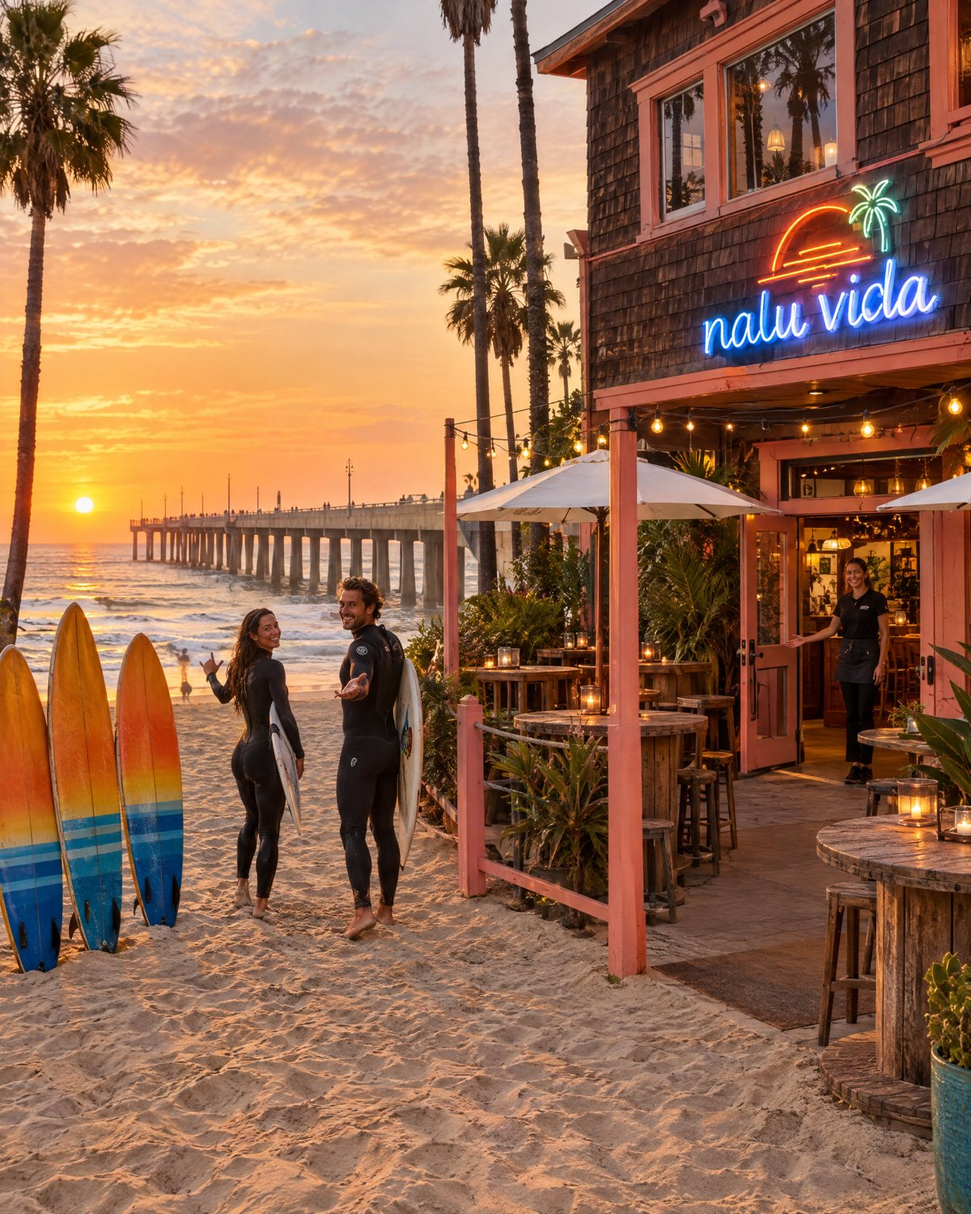
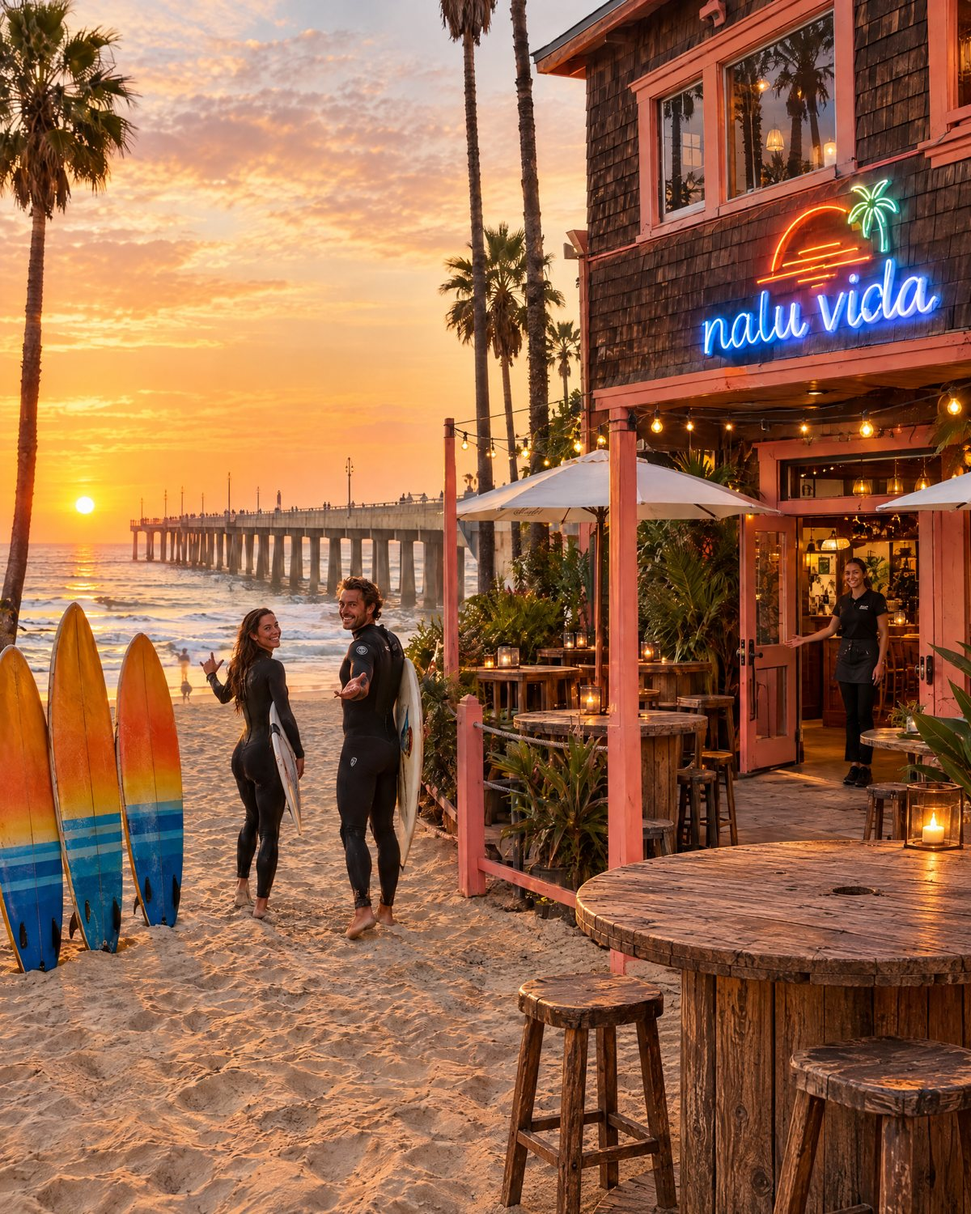
Christian's one-link launch checklist; Nalu game jump + wave bob + lit shore; arrival scene with 3D plates
- /launch/christian/: both restaurants' setup pages, register (POS) per restaurant with step-by-step links,
  launch-week questions, one 'Send everything' that collects both setup summaries + launch answers
- setup-kit: window.SETUP_SUMMARY exposed so the launch checklist can collect answers; all setup pages rebuilt
- Ride the Nalu: tap to jump (clear the pier +500, fly over hazards), wave bob, swell hops,
  helicopter over the shore at the pit stop, golden-hour aerial with Nalu Vida's packed, lit patio
- Arrival scene: big foreground table, 3D dishes (tilt, sheen, contact shadow, steam), pairs every third round

Claude-Session: https://claude.ai/code/session_01QPTzY5K9U99ggeSmdzRnr3

diff --git a/demo/nalu-vida/game.js b/demo/nalu-vida/game.js
@@ -39,7 +39,7 @@
     '<div class="nv-ov" id="nv-start"><h3>Ride the Nalu</h3><p>Surf the Venice Pier loop. Grab the food, dodge the bites, and win free food &amp; drinks at Nalu Vida.</p>' +
     '<div class="nv-pick"><button type="button" data-s="f"><img src="img/game/surfer_f.webp" alt="" onerror="this.outerHTML=\'<div class=ph style=font-size:64px;line-height:96px>🏄♀</div>\'">She rides</button>' +
     '<button type="button" data-s="m"><img src="img/game/surfer_m.webp" alt="" onerror="this.outerHTML=\'<div class=ph style=font-size:64px;line-height:96px>🏄♂</div>\'">He rides</button></div>' +
-    '<p class="nv-how">Drag to steer · Grab food rafts, boat hand-offs and helicopter drops · 4 in a row = ×2, 8 = ×3, and it keeps going · Dodge sharks, eels &amp; jellyfish · Shoot the pier for a bonus · Tap the banner plane 👀</p><p class="nv-how" id="nv-best"></p></div>' +
+    '<p class="nv-how">Drag to steer · <b>Tap to jump</b> (clear the pier, fly over sharks) · Grab food rafts, boat hand-offs and helicopter drops · 4 in a row = ×2, 8 = ×3, and it keeps going · Dodge sharks, eels &amp; jellyfish · Shoot the pier for a bonus · Tap the banner plane 👀</p><p class="nv-how" id="nv-best"></p></div>' +
     '<div class="nv-ov" id="nv-end" style="display:none"></div>' +
     "</div>";
   var wrap = mount.firstChild, gl_c = document.getElementById("nv-water"), cv = document.getElementById("cv"), cx = cv.getContext("2d");
@@ -181,7 +181,7 @@
     G.score = 0; G.lap = 1; G.dir = 1; G.phase = "ride"; G.hearts = 3; G.streak = 0; G.mult = 1; G.hurt = 0; G.inv = 1.2; G.shake = 0;
     G.x = 120; G.yw = END_Y - 420; G.vx = 0; G.ang = Math.PI; G.dir = -1; G.lead = -LEAD; G.cam = G.yw + G.lead; G.phase = "intro"; G.introT = 0; G.ents = []; G.fx = []; G.wake = []; G.turn = null; G.underPier = 0;
     G.spawn = { food: 1.2, haz: 2.5, boat: 9, heli: 16, plane: 26, buoy: 40, swell: 3 }; G.runId++; G.posted = 0; G.planeTapped = 0; G.lastGain = G.t;
-    G.pierSide = G.x < PIER_X ? -1 : 1; G.staffToss = 2.2;
+    G.pierSide = G.x < PIER_X ? -1 : 1; G.staffToss = 2.2; G.jump = 0; G.jumpDur = 0; G.jcd = 0; G.hint = 4;
   }
   function speed() { return (150 + 22 * (G.lap - 1)) * (G.phase === "ride" ? 1 : 0); }
 
@@ -224,7 +224,7 @@
   var tt = 0;
   function toast(img, t) { var e = $("nv-toast"), i = $("nv-toast-img"); if (ok(IM[img])) { i.src = IM[img].src; i.style.display = ""; } else i.style.display = "none"; $("nv-toast-t").textContent = t; e.classList.add("on"); clearTimeout(tt); tt = setTimeout(function () { e.classList.remove("on"); }, 1800); }
   function hurt(why) {
-    if (G.inv > 0 || G.phase !== "ride") return;
+    if (G.inv > 0 || G.phase !== "ride" || G.jump > 0.06) return;
     G.hearts--; G.inv = 1.6; G.hurt = 0.35; G.shake = 10; G.streak = 0; G.mult = 1; buzz([60, 40, 90]);
     pop(G.x, sy(G.yw) - 30, why, "#ff6b6b", 1); sfx(/SHARK/.test(why) ? "bite" : /ZAP/.test(why) ? "zap" : "hit");
     if (G.hearts <= 0) end();
@@ -239,6 +239,8 @@
     if (G.phase === "shore") return shoreStep(dt);
     var v = speed();
     G.yw += G.dir * v * dt;
+    if (G.hint > 0) G.hint -= dt; if (G.jcd > 0) G.jcd -= dt;
+    if (G.jump > 0) { G.jump -= dt; if (G.jump <= 0) { G.jump = 0; land(); } }
     // steering
     G.x += G.vx * dt; G.vx *= Math.pow(0.0009, dt); G.x = Math.max(16, Math.min(W - 16, G.x));
     G.ang += ((G.dir > 0 ? 0 : Math.PI) + Math.max(-0.5, Math.min(0.5, G.vx / 420)) * G.dir - G.ang) * Math.min(1, dt * 8);
@@ -248,9 +250,9 @@
     // wake
     if (Math.random() < 0.9) G.wake.push({ x: G.x + rnd(-4, 4), yw: G.yw - G.dir * 18, t: 0, s: rnd(3, 6) });
     // pier: pilings every 80 world px, shooting the pier = crossing under without touching one
-    var under = Math.abs(G.x - PIER_X) < PIER_W / 2 - 4 && G.yw > -40 && G.yw < END_Y - END_R;
+    var under = G.jump <= 0 && Math.abs(G.x - PIER_X) < PIER_W / 2 - 4 && G.yw > -40 && G.yw < END_Y - END_R;
     if (under) { var ph = ((G.yw % 80) + 80) % 80; if (ph < 9 || ph > 71) hurt("Pier piling!"); G.underPier = 1; }
-    else { var side = G.x < PIER_X ? -1 : 1; if (G.underPier && side !== G.pierSide && G.inv <= 0) { gain(400, G.x, sy(G.yw) - 30, "SHOT THE PIER!"); buzz(25); } G.underPier = 0; G.pierSide = side; }
+    else if (G.jump <= 0) { var side = G.x < PIER_X ? -1 : 1; if (G.underPier && side !== G.pierSide && G.inv <= 0) { gain(400, G.x, sy(G.yw) - 30, "SHOT THE PIER!"); buzz(25); } G.underPier = 0; G.pierSide = side; }
     // spawns
     var S = G.spawn, lv = G.lap, nearEnd = G.dir > 0 ? G.yw > LEG - 500 : G.yw < 500;
     S.food -= dt; S.haz -= dt; S.boat -= dt; S.heli -= dt; S.plane -= dt; S.buoy -= dt; S.swell -= dt;
@@ -291,7 +293,7 @@
         if (danger && d < hitR) { hurt(e.t === "shark" ? "SHARK BITE!" : e.t === "eel" ? "⚡ ZAPPED!" : e.t === "jelly" ? "Jellyfish sting!" : "Boat wake!"); if (e.t === "shark") e.st = "gone"; continue; }
         if ((e.t === "jelly" || e.t === "eel" || e.t === "shark") && !e.nm && d < hitR + 26 && d >= hitR && (e.t !== "shark" || e.st === "lunge")) { e.nm = 1; gain(50, G.x, py - 40, "close one!"); }
       }
-      if (e.t === "swell" && !e.hit && Math.abs(e.yw - G.yw) < 10) { e.hit = 1; if (Math.abs(G.vx) > 120) { gain(150, G.x, py - 36, "AIR!"); G.fx.push({ k: "spray", x: G.x, y: py, t: 0 }); } }
+      if (e.t === "swell" && !e.hit && Math.abs(e.yw - G.yw) < 10) { e.hit = 1; jump(false); if (Math.abs(G.vx) > 120) { gain(150, G.x, py - 36, "AIR!"); G.fx.push({ k: "spray", x: G.x, y: py, t: 0 }); } }
       ey = e.scr ? e.y : sy(e.yw);
       if (e.t === "plane" ? (e.x < -360 || e.x > W + 360) : (ey < -260 || ey > H + 260 || e.x < -120 || e.x > W + 120)) G.ents.splice(i, 1);
     }
@@ -320,6 +322,18 @@
     G.cam = G.yw - LEAD * .3; tickEnts(dt);
     if (k >= 1 && !G.finDone) { G.finDone = 1; showEnd(); }
   }
+  // tap to launch off a wave: airborne you clear the pier and fly over sharks, eels and jellies
+  function jump(big) {
+    if (!G.running || G.phase !== "ride" || G.jump > 0 || (big && G.jcd > 0)) return;
+    G.jumpDur = big ? 0.82 : 0.38; G.jump = G.jumpDur; if (big) { G.jcd = 1.0; sfx("air"); buzz(12); }
+    G.jumpFrom = G.x < PIER_X ? -1 : 1; G.fx.push({ k: "spray", x: G.x, y: sy(G.yw), t: 0 });
+  }
+  function land() {
+    G.fx.push({ k: "splash", x: G.x, y: sy(G.yw), t: 0 }); sfx("splash");
+    var side = G.x < PIER_X ? -1 : 1;
+    if (G.jumpDur > 0.6 && side !== G.jumpFrom && G.yw > -40 && G.yw < END_Y - END_R) { gain(500, G.x, sy(G.yw) - 40, "PIER JUMP!"); }
+    G.pierSide = side; G.underPier = 0;
+  }
   function tossTo(fx, fyw, tx, tyw, from) { add({ t: "toss", x: fx, yw: fyw, fx: fx, fyw: fyw, tx: tx, tyw: tyw, f: 0, dur: 0.75, from: from }); }
 
   // round the end of the pier: follow an arc around the platform, camera swings to look back toward shore
@@ -344,6 +358,7 @@
   }
   function shoreStep(dt) {
     G.shoreT += dt; G.cam += (G.yw + G.lead - G.cam) * Math.min(1, dt * 3);
+    if (!G.shoreHeli) { G.shoreHeli = 1; add({ t: "heli", x: -70, yw: G.yw - 150, vx: 115, drops: 0, dt: 9, sky: 1 }); }
     G.x += G.vx * dt; G.vx *= Math.pow(0.0009, dt); G.x = Math.max(16, Math.min(W - 16, G.x));
     G.staffToss -= dt; if (G.staffToss <= 0 && G.shoreT < 3.2) { G.staffToss = 0.45; var tx = Math.max(30, Math.min(W - 30, G.x + rnd(-120, 120))); tossTo(rnd(120, 330), -120, tx, G.yw + rnd(-40, 60), "staff"); }
     tickEnts(dt);
@@ -351,7 +366,7 @@
     if (G.shoreT > 4.2) {
       var bonus = 1000 * G.lap; G.score += bonus; pop(W / 2, H * .35, "LAP " + G.lap + " DONE · +" + bonus.toLocaleString(), "#ffd23f", 1);
       toast(Math.random() < .5 ? "lifeguard_f" : "lifeguard_m", "Lap " + G.lap + " done! Faster now 🌊");
-      G.lap++; G.phase = "ride"; G.dir = 1; G.ang = 0; G.spawn.haz = 1.5; G.spawn.food = 0.5; G.ents = G.ents.filter(function (e) { return e.sky; });
+      G.lap++; G.shoreHeli = 0; G.phase = "ride"; G.dir = 1; G.ang = 0; G.spawn.haz = 1.5; G.spawn.food = 0.5; G.ents = G.ents.filter(function (e) { return e.sky; });
     }
     G.wake = G.wake.filter(function (w) { w.t += dt; return w.t < 1.1; });
     G.fx = G.fx.filter(function (f) { f.t += dt; return f.t < (f.k === "txt" ? 1.1 : 0.6); });
@@ -393,6 +408,7 @@
       else if (f.k === "splash") { for (var q2 = 0; q2 < 18; q2++) { var an = q2 / 18 * 6.283, rr2 = f.t * 120; cx.fillStyle = "rgba(255,255,255," + (1 - f.t / .6) + ")"; cx.beginPath(); cx.arc(f.x + Math.cos(an) * rr2, f.y + Math.sin(an) * rr2 * .6, 4 - f.t * 4, 0, 7); cx.fill(); } cx.strokeStyle = "rgba(255,255,255," + (1 - f.t / .6) + ")"; cx.lineWidth = 3; cx.beginPath(); cx.ellipse(f.x, f.y, f.t * 90, f.t * 54, 0, 0, 7); cx.stroke(); }
       else if (f.k === "spray") { for (var k = 0; k < 10; k++) { cx.fillStyle = "rgba(255,255,255," + (1 - f.t / .6) + ")"; cx.beginPath(); cx.arc(f.x + Math.cos(k) * f.t * 80, f.y + Math.sin(k * 2) * f.t * 50, 3, 0, 7); cx.fill(); } }
     });
+    if (G.hint > 0 && G.phase === "ride") { cx.globalAlpha = Math.min(1, G.hint) * (.6 + .4 * Math.sin(G.t * 6)); label("👆 Tap to jump · drag to steer", W / 2, H - 40, "#fff"); cx.globalAlpha = 1; }
     if (G.hurt > 0) { cx.fillStyle = "rgba(255,40,60," + G.hurt * .9 + ")"; cx.fillRect(-20, -20, W + 40, H + 40); }
     if ((G.phase === "shore" || G.phase === "finale") && ok(IM.storefront)) {
       var k = Math.min(1, (G.phase === "shore" ? G.shoreT : G.finT) / .5), cw = W - 40, ch = cw * IM.storefront.naturalHeight / IM.storefront.naturalWidth, yy = 64 - (1 - k) * (ch + 80);
@@ -454,8 +470,11 @@
       if (f < 1) { cx.fillStyle = "rgba(0,20,35,.25)"; cx.beginPath(); cx.ellipse(jx + 10, by + (y - by) * f + 10, 12, 26, 0, 0, 7); cx.fill(); spr(G.surfer === "m" ? "surfer_m" : "surfer_f", jx, jy, 64 * sc, Math.PI + f * .6); return; }
     }
     if (blink) return;
-    cx.fillStyle = "rgba(0,20,35,.25)"; cx.beginPath(); cx.ellipse(x + 6, y + 8, 12, 30, G.ang, 0, 7); cx.fill();
-    if (!spr(G.surfer === "m" ? "surfer_m" : "surfer_f", x, y, 64, G.ang)) {
+    var air = G.jump > 0 ? Math.sin(Math.PI * (1 - G.jump / G.jumpDur)) * (G.jumpDur > .6 ? 1 : .45) : 0;
+    var bob = Math.sin(G.t * 2.3 + G.yw * .018) * 2.5, tilt = Math.sin(G.t * 1.7 + G.yw * .011) * .07;
+    cx.fillStyle = "rgba(0,20,35," + (.25 - air * .1) + ")"; cx.beginPath(); cx.ellipse(x + 6 + air * 26, y + 8 + air * 34, 12 * (1 - air * .25), 30 * (1 - air * .25), G.ang, 0, 7); cx.fill();
+    y = y + bob - air * 34;
+    if (!spr(G.surfer === "m" ? "surfer_m" : "surfer_f", x, y, 64 * (1 + air * .42), G.ang + tilt + air * .25 * (G.vx > 0 ? 1 : -1))) {
       cx.save(); cx.translate(x, y); cx.rotate(G.ang); var gr = cx.createLinearGradient(0, -30, 0, 30); gr.addColorStop(0, "#ffb02e"); gr.addColorStop(.5, "#ffd23f"); gr.addColorStop(.5, "#2f8fd8"); gr.addColorStop(1, "#173d8f");
       cx.fillStyle = gr; cx.beginPath(); cx.ellipse(0, 0, 10, 30, 0, 0, 7); cx.fill(); cx.fillStyle = G.surfer === "m" ? "#7a4a2a" : "#b5735a"; cx.beginPath(); cx.arc(0, -2, 7, 0, 7); cx.fill(); cx.restore();
     }
@@ -604,12 +623,13 @@
     var pl = G.ents.filter(function (x) { return x.t === "plane" && x.hit; })[0];
     if (pl && p.x > pl.hit.x && p.x < pl.hit.x + pl.hit.w && p.y > pl.hit.y && p.y < pl.hit.y + pl.hit.h) { melodyEgg(); return; }
     if (!G.running) return;
-    drag = { id: e.pointerId, x: p.x }; try { cv.setPointerCapture(e.pointerId); } catch (x) {}
+    drag = { id: e.pointerId, x: p.x, x0: p.x, t0: performance.now(), moved: 0 }; try { cv.setPointerCapture(e.pointerId); } catch (x) {}
   });
-  cv.addEventListener("pointermove", function (e) { if (!drag || e.pointerId !== drag.id) return; var p = local(e), dx = p.x - drag.x; drag.x = p.x; G.x += dx * 1.15; G.vx = dx * 60; });
-  ["pointerup", "pointercancel"].forEach(function (t) { cv.addEventListener(t, function () { drag = null; }); });
+  cv.addEventListener("pointermove", function (e) { if (!drag || e.pointerId !== drag.id) return; var p = local(e), dx = p.x - drag.x; drag.x = p.x; drag.moved += Math.abs(dx); G.x += dx * 1.15; G.vx = dx * 60; });
+  cv.addEventListener("pointerup", function () { if (drag && drag.moved < 10 && performance.now() - drag.t0 < 280) jump(true); drag = null; });
+  cv.addEventListener("pointercancel", function () { drag = null; });
   var keys = {};
-  window.addEventListener("keydown", function (e) { if (!G.running) return; if (e.key === "ArrowLeft" || e.key === "ArrowRight") { keys[e.key] = 1; e.preventDefault(); } });
+  window.addEventListener("keydown", function (e) { if (!G.running) return; if (e.key === " " || e.key === "ArrowUp") { jump(true); e.preventDefault(); return; } if (e.key === "ArrowLeft" || e.key === "ArrowRight") { keys[e.key] = 1; e.preventDefault(); } });
   window.addEventListener("keyup", function (e) { keys[e.key] = 0; });
   setInterval(function () { if (keys.ArrowLeft) G.vx = Math.max(-380, G.vx - 90); if (keys.ArrowRight) G.vx = Math.min(380, G.vx + 90); }, 50);
   $("nv-mute").onclick = function () { audio(); setMute(!MUTED); }; setMute(MUTED);

diff --git a/launch/christian/index.html b/launch/christian/index.html
@@ -1,0 +1,105 @@
+<!doctype html>
+<html lang="en"><head><meta charset="utf-8"><meta name="viewport" content="width=device-width,initial-scale=1,viewport-fit=cover">
+<title>Launch Checklist</title><meta name="robots" content="noindex">
+<link rel="preconnect" href="https://fonts.googleapis.com"><link href="https://fonts.googleapis.com/css2?family=Rubik:wght@500;700;900&display=swap" rel="stylesheet">
+<style>
+:root{--bg:#0b1220;--card:#121c33;--edge:#24345c;--ink:#f5f7ff;--dim:#aab6d6;--blue:#4da3ff;--gold:#ffd23f;--ok:#3ddc97;--mel:#b3263a;--nalu:#ff8a2e}
+*{box-sizing:border-box}html,body{margin:0;background:var(--bg);color:var(--ink);font:16px/1.45 Rubik,system-ui,sans-serif}
+main{max-width:640px;margin:auto;padding:18px 16px 130px}
+h1{font-size:26px;margin:4px 0}h2{font-size:19px;margin:28px 0 8px}.sub{color:var(--dim);margin:0 0 12px}
+.step{display:flex;gap:12px;align-items:flex-start;background:var(--card);border:1px solid var(--edge);border-radius:16px;padding:14px;margin:10px 0}
+.num{flex:none;width:34px;height:34px;border-radius:50%;display:grid;place-items:center;font-weight:900;background:#1d2b4f;color:var(--blue)}
+.step.done .num{background:var(--ok);color:#06231a}.step.done .num::after{content:"✓"}.step.done .num span{display:none}
+.step h3{margin:0 0 2px;font-size:16.5px}.step p{margin:2px 0 8px;color:var(--dim);font-size:14px}
+.go{display:inline-block;padding:10px 14px;border-radius:12px;text-decoration:none;font-weight:800;color:#fff;margin:2px 6px 2px 0}
+.go.mel{background:var(--mel)}.go.nalu{background:var(--nalu);color:#2b1200}.go.pos{background:#1e6fe0}
+.q{background:var(--card);border:1px solid var(--edge);border-radius:14px;padding:12px;margin:8px 0}.q b{display:block;margin-bottom:6px;font-size:15px}
+.chips{display:flex;flex-wrap:wrap;gap:6px}.chip{border:1px solid var(--edge);background:#1a2644;color:var(--ink);padding:8px 11px;border-radius:999px;font:600 14px Rubik,system-ui;cursor:pointer}
+.chip.on{background:var(--gold);border-color:var(--gold);color:#241a00}
+.q input{width:100%;padding:11px;border-radius:10px;border:1px solid var(--edge);background:#0e1730;color:var(--ink);font:500 15px Rubik,system-ui}
+.tag{display:inline-block;font-size:12px;font-weight:800;padding:2px 8px;border-radius:999px;margin-left:6px;vertical-align:middle}
+.tag.mel{background:rgba(179,38,58,.25);color:#ffb3bf}.tag.nalu{background:rgba(255,138,46,.2);color:#ffc89a}
+.bar{position:fixed;left:0;right:0;bottom:0;background:rgba(11,18,32,.96);border-top:1px solid var(--edge);padding:12px 16px calc(12px + env(safe-area-inset-bottom))}
+.bar button{width:100%;max-width:640px;display:block;margin:auto;padding:15px;border:0;border-radius:14px;background:var(--gold);color:#241a00;font:900 17px Rubik,system-ui;cursor:pointer}
+.prog{max-width:640px;margin:0 auto 8px;color:var(--dim);font-size:13px;text-align:center}
+.note{background:#1a2440;border:1px solid #2e4677;border-radius:12px;padding:10px 12px;font-size:13.5px;color:#cfe0ff}
+</style></head><body><main>
+<h1>Hi Christian 👋</h1>
+<p class="sub">This is everything we need to launch <b>Melody Bar &amp; Grill</b> and <b>Nalu Vida</b> next week, all in one place. Almost everything is a tap, no typing. Your answers save on this phone, so you can stop and come back anytime. When you're done, hit <b>Send everything to Antidote</b> at the bottom.</p>
+<p class="note">Nothing goes live until you've approved it. After you send, we put your choices in, print the QR codes, and your guests can start playing and earning the same day.</p>
+
+<h2>1 · Your deals, giveaways &amp; prizes</h2>
+<div class="step" id="st-mel"><div class="num"><span>1</span></div><div><h3>Melody Bar &amp; Grill <span class="tag mel">LAX</span></h3>
+<p>Weekly giveaway, rewards, lucky draw, game prizes, promo codes, menu prices, and answers to what guests ask on the phone. About 5 minutes.</p>
+<a class="go mel" href="../../melody/setup/">Open Melody's setup →</a></div></div>
+<div class="step" id="st-nalu"><div class="num"><span>2</span></div><div><h3>Nalu Vida <span class="tag nalu">Venice Pier</span></h3>
+<p>The same for Nalu Vida, plus the Ride the Nalu surf game prizes. About 5 minutes.</p>
+<a class="go nalu" href="../../nalu-vida/setup/">Open Nalu Vida's setup →</a></div></div>
+<p class="note">After each one, just tap your phone's back button to return here. You don't need to send from those pages; this page sends everything together.</p>
+
+<h2>2 · Your registers</h2>
+<div id="pos"></div>
+
+<h2>3 · Launch week</h2>
+<div id="launch"></div>
+
+<p class="prog" id="prog"></p>
+</main>
+<div class="bar"><div class="prog" id="prog2"></div><button id="send" type="button">✅ Send everything to Antidote</button></div>
+<script>
+var K="christian-launch-v1", S={}; try{ S=JSON.parse(localStorage.getItem(K)||"{}"); }catch(e){}
+function save(){ try{ localStorage.setItem(K,JSON.stringify(S)); }catch(e){} progress(); }
+function h(t,c,x){ var e=document.createElement(t); if(c) e.className=c; if(x!=null) e.innerHTML=x; return e; }
+function chips(box,key,opts,multi){
+  var c=h("div","chips"); opts.forEach(function(o){ var b=h("button","chip",o); b.type="button";
+    var on=multi?((S[key]||[]).indexOf(o)>=0):S[key]===o; if(on) b.classList.add("on");
+    b.onclick=function(){ if(multi){ var a=S[key]||[]; var i=a.indexOf(o); if(i>=0) a.splice(i,1); else a.push(o); S[key]=a; b.classList.toggle("on"); }
+      else { S[key]=o; [].forEach.call(c.children,function(x){ x.classList.remove("on"); }); b.classList.add("on"); } save(); if(box.onpick) box.onpick(o); };
+    c.appendChild(b); }); box.appendChild(c); }
+function q(parent,key,label,opts,hint,multi){ var d=h("div","q"); d.appendChild(h("b",null,label)); if(hint) d.appendChild(h("div",null,"<span style='color:var(--dim);font-size:13px'>"+hint+"</span>")); chips(d,key,opts,multi); parent.appendChild(d); return d; }
+var POS=["Toast","Square","Clover","SpotOn","Lightspeed","Revel","Something else","No POS / cash"], PID={"Toast":"toast","Square":"square","Clover":"clover","SpotOn":"spoton","Lightspeed":"lightspeed","Revel":"revel","Something else":"other","No POS / cash":"none"};
+var pos=document.getElementById("pos");
+[["mel","Melody Bar & Grill","Melody"],["nalu","Nalu Vida","Nalu Vida"]].forEach(function(r){
+  var d=q(pos,"pos_"+r[0],"What does "+r[1]+" ring up on?",POS,"Tap the one on the card reader or receipt.");
+  var a=h("a","go pos",""); a.style.marginTop="8px"; d.appendChild(a);
+  function link(v){ if(!v){ a.style.display="none"; return; } a.style.display="inline-block"; a.textContent="Step-by-step for "+v+" →"; a.href="../../pos/?pos="+PID[v]+"&r="+encodeURIComponent(r[2]); }
+  d.onpick=link; link(S["pos_"+r[0]]);
+  q(pos,"posway_"+r[0],"How do you want to start at "+r[2]+"?",["Discount buttons now (10 min)","Full connection","Walk me through it"],"Discount buttons work today on any system. The full connection syncs points automatically later.");
+});
+var L=document.getElementById("launch");
+q(L,"date","When should we go live?",["This coming Monday","Wednesday","Friday","Next weekend"]);
+q(L,"tables_mel","How many tables at Melody (for table QR stickers)?",["Under 15","15–25","25–40","40+"]);
+q(L,"tables_nalu","How many tables at Nalu Vida (incl. patio)?",["Under 15","15–25","25–40","40+"]);
+q(L,"print","What should we print?",["Table stickers","Window posters","Bar & register stickers","Menu inserts"],"Pick all that apply. We bring them.",true);
+q(L,"ig","OK to put the app link in both Instagram bios?",["Yes, both","Melody only","Nalu only","Ask me first"],"Nalu Vida's bio link goes to the events page now; we'll keep events inside the app.");
+q(L,"msgs","Who gets guest phone messages and new sign-up alerts?",["Christian","Sami","Manager on duty","All of us"],null,true);
+q(L,"msghow","How should those arrive?",["Text","Email","Both"]);
+q(L,"fwd","Call forwarding: send missed and after-hours calls to the AI host?",["Yes, both restaurants","Melody only","Nalu only","Not yet"]);
+q(L,"staff","When can staff do a 10-minute walkthrough on redeeming codes?",["Before opening","Between lunch and dinner","After close","Send a video instead"]);
+q(L,"assets","Logo files and real drink prices",["I'll text them to Antidote","Use what's on the websites","Have Sami send them"]);
+var em=h("div","q"); em.appendChild(h("b",null,"Your Google email (so we can share your customer sign-up sheets)"));
+var inp=h("input"); inp.type="email"; inp.placeholder="name@gmail.com"; inp.value=S.gmail||""; inp.oninput=function(){ S.gmail=inp.value.trim(); save(); }; em.appendChild(inp); L.appendChild(em);
+q(L,"ready","Anything else before we launch?",["All good, let's go","Call me first","I have questions"]);
+
+function setupDone(path,cb){ var f=document.createElement("iframe"); f.style.display="none"; f.src=path; document.body.appendChild(f);
+  f.onload=function(){ var t=""; try{ t=f.contentWindow.SETUP_SUMMARY(); }catch(e){ t="(couldn't read this page's answers)"; } var ls=0; try{ ls=Object.keys(f.contentWindow.localStorage).filter(function(k){ return /setup/.test(k); }).length; }catch(e){} cb(t); setTimeout(function(){ f.remove(); },50); }; }
+function progress(){
+  var keys=["pos_mel","posway_mel","pos_nalu","posway_nalu","date","tables_mel","tables_nalu","ig","msghow","fwd","staff","assets","ready"], n=keys.filter(function(k){ return S[k]; }).length;
+  var t=n+" of "+keys.length+" launch questions answered"; document.getElementById("prog").textContent=t; document.getElementById("prog2").textContent=t;
+}
+// tick a step once that restaurant's setup page has saved answers on this phone
+try{ Object.keys(localStorage).forEach(function(k){ if(/melody-setup/.test(k)) document.getElementById("st-mel").classList.add("done"); if(/nalu/.test(k)&&/setup/.test(k)) document.getElementById("st-nalu").classList.add("done"); }); }catch(e){}
+progress();
+document.getElementById("send").onclick=function(){
+  var btn=this; btn.textContent="Gathering your answers…";
+  setupDone("../../melody/setup/index.html",function(mel){ setupDone("../../nalu-vida/setup/index.html",function(nalu){
+    var out=["LAUNCH CHECKLIST — Christian (Melody + Nalu Vida)",""];
+    out.push("REGISTERS"); out.push("• Melody: "+(S.pos_mel||"(no answer)")+" — "+(S.posway_mel||"(no answer)")); out.push("• Nalu Vida: "+(S.pos_nalu||"(no answer)")+" — "+(S.posway_nalu||"(no answer)"));
+    out.push("","LAUNCH WEEK");
+    [["date","Go live"],["tables_mel","Melody tables"],["tables_nalu","Nalu tables"],["print","Print"],["ig","IG bio links"],["msgs","Messages go to"],["msghow","Message by"],["fwd","Call forwarding"],["staff","Staff walkthrough"],["assets","Logos & drink prices"],["gmail","Google email"],["ready","Before launch"]].forEach(function(p){ var v=S[p[0]]; out.push("• "+p[1]+": "+(Array.isArray(v)?v.join(", "):(v||"(no answer)"))); });
+    out.push("","==================","",mel,"","==================","",nalu);
+    var t=out.join("\n"); btn.textContent="✅ Send everything to Antidote";
+    if(navigator.share){ navigator.share({title:"Launch checklist",text:t}).catch(function(){}); } else { location.href="sms:&body="+encodeURIComponent(t); }
+  }); });
+};
+</script></body></html>

diff --git a/demo/nalu-vida/index.html b/demo/nalu-vida/index.html
@@ -199,12 +199,22 @@ footer{margin-top:36px;color:var(--dim);font-size:12.5px;text-align:center;line-
 .arrive .bubble.r::after{left:auto;right:18px;border-color:#ffb36b;box-shadow:3px 3px 6px rgba(255,106,43,.6)}
 @keyframes nvled{0%,100%{opacity:1}47%{opacity:1}48%{opacity:.55}49%{opacity:1}83%{opacity:1}84%{opacity:.7}85%{opacity:1}}
 /* living scene layers */
-.arrive .neon{position:absolute;z-index:1;left:70%;top:13%;width:30%;height:17%;border-radius:40%;pointer-events:none;mix-blend-mode:screen;
+.arrive .neon{position:absolute;z-index:1;left:80%;top:14%;width:20%;height:15%;border-radius:40%;pointer-events:none;mix-blend-mode:screen;
   background:radial-gradient(ellipse at 55% 60%,rgba(80,160,255,.55),rgba(46,196,230,.25) 40%,transparent 70%),radial-gradient(ellipse at 40% 25%,rgba(255,120,40,.45),transparent 55%);animation:nvflick 5.5s infinite}
-.arrive .neondim{position:absolute;z-index:1;left:70%;top:13%;width:30%;height:17%;pointer-events:none;background:rgba(8,20,40,.55);border-radius:30%;filter:blur(6px);opacity:0;animation:nvdim 7s infinite}
+.arrive .neondim{position:absolute;z-index:1;left:80%;top:14%;width:20%;height:15%;pointer-events:none;background:rgba(8,20,40,.55);border-radius:30%;filter:blur(6px);opacity:0;animation:nvdim 7s infinite}
 @keyframes nvflick{0%,100%{opacity:.9}8%{opacity:1}9%{opacity:.35}10%{opacity:1}11%{opacity:.5}12%{opacity:1}55%{opacity:.85}56%{opacity:.3}57%{opacity:.95}80%{opacity:1}}
 @keyframes nvdim{0%,61%,66%,100%{opacity:0}62%{opacity:.8}63%{opacity:.1}64%{opacity:.7}}
 .arrive .fx{position:absolute;z-index:1;pointer-events:none;will-change:transform,opacity;height:auto}
+.arrive .plate{position:absolute;z-index:2;pointer-events:none;perspective:700px;opacity:0}
+.arrive .plate.in{animation:nvplate 4.6s cubic-bezier(.2,.8,.2,1) forwards}
+.arrive .plate .p3{position:relative;transform-style:preserve-3d;animation:nvspin 4.6s ease-in-out}
+.arrive .plate img{display:block;width:100%;height:auto;filter:drop-shadow(0 10px 8px rgba(0,0,0,.35)) saturate(1.08) contrast(1.04)}
+.arrive .plate .shd{position:absolute;left:8%;right:8%;bottom:-4%;height:22%;border-radius:50%;background:radial-gradient(ellipse at 50% 50%,rgba(20,8,0,.55),rgba(20,8,0,0) 70%);filter:blur(3px);transform:translateZ(-1px)}
+.arrive .plate .sheen{position:absolute;inset:0;-webkit-mask-size:100% 100%;mask-size:100% 100%;-webkit-mask-repeat:no-repeat;mask-repeat:no-repeat;
+  background:linear-gradient(105deg,transparent 30%,rgba(255,255,255,.55) 45%,rgba(255,240,200,.15) 55%,transparent 70%);background-size:250% 100%;mix-blend-mode:screen;animation:nvsheen 4.6s ease-in-out}
+@keyframes nvplate{0%{opacity:0;transform:translateY(-28px) scale(.82)}14%{opacity:1;transform:translateY(4px) scale(1.03)}20%{transform:translateY(0) scale(1)}84%{opacity:1;transform:none}100%{opacity:0;transform:scale(.95) translateY(3px)}}
+@keyframes nvspin{0%{transform:rotateX(14deg) rotateY(-16deg)}50%{transform:rotateX(10deg) rotateY(8deg)}100%{transform:rotateX(14deg) rotateY(-4deg)}}
+@keyframes nvsheen{0%,25%{background-position:120% 0}70%,100%{background-position:-60% 0}}
 .arrive .dish{height:auto;position:absolute;z-index:2;pointer-events:none;filter:drop-shadow(0 8px 10px rgba(0,0,0,.45));transform-origin:50% 100%;opacity:0}
 .arrive .dish.in{animation:nvdish 4.2s ease forwards}
 @keyframes nvdish{0%{opacity:0;transform:translateY(14px) scale(.6)}12%{opacity:1;transform:translateY(-6px) scale(1.06)}18%{transform:translateY(0) scale(1)}82%{opacity:1;transform:scale(1)}100%{opacity:0;transform:scale(.92) translateY(4px)}}
@@ -221,10 +231,10 @@ footer{margin-top:36px;color:var(--dim);font-size:12.5px;text-align:center;line-
   <img class="bg" src="img/hero.jpg" alt="Nalu Vida at the foot of the Venice Pier at sunset: surfers with boards on the sand to the left, the glowing restaurant entrance to the right" fetchpriority="high">
   <h1><small>Venice Pier · Tropical Bites · Craft Cocktails</small>Welcome to Nalu Vida 🌴</h1>
   <div class="neon" aria-hidden="true"></div><div class="neondim" aria-hidden="true"></div>
-  <span class="bubble" style="left:9%;top:33%">Come ride with us! 🌊</span>
-  <span class="bubble r" style="right:2%;top:37%">Your table's ready 🍹</span>
-  <img class="dish" id="dishA" alt="" style="left:52%;top:55%;width:16%">
-  <img class="dish" id="dishB" alt="" style="left:80%;top:62%;width:20%">
+  <span class="bubble" style="left:20%;top:38%">Come ride with us! 🌊</span>
+  <span class="bubble r" style="right:2%;top:34%">Your table's ready 🍹</span>
+  <div class="plate" id="plateA" style="left:63%;top:58%;width:31%"><div class="p3"><i class="shd"></i><img alt=""><i class="sheen"></i></div></div>
+  <div class="plate" id="plateB" style="left:80%;top:60%;width:21%"><div class="p3"><i class="shd"></i><img alt=""><i class="sheen"></i></div></div>
   <a class="go l" href="#play" id="arrive-play">🏄 Grab a board<small>Ride the Nalu · win free food</small></a>
   <a class="go r" href="#food">🍽 Head inside<small>Order from your table</small></a>
 </section>
@@ -1045,15 +1055,25 @@ $("evsub").textContent="Week of "+MON[new Date(monday).getUTCMonth()]+" "+new Da
     var x0=l2r?-12:105, x1=l2r?105:-12; anim(g,[{transform:"translate("+x0*3.9+"px,0) scaleX("+(l2r?1:-1)+")"},{transform:"translate("+((x0+x1)/2)*3.9+"px,"+(Math.random()*30-15)+"px) scaleX("+(l2r?1:-1)+")"},{transform:"translate("+x1*3.9+"px,"+(Math.random()*20-10)+"px) scaleX("+(l2r?1:-1)+")"}],9000+Math.random()*5000); }
   function jetski(){ var j=el("img/scene/jetski.webp"); j.style.cssText="top:46%;width:11%;left:0"; var W=A.clientWidth;
     anim(j,[{transform:"translate("+W*.5+"px,0)"},{transform:"translate("+W*.26+"px,2px)",offset:.5},{transform:"translate("+(-W*.15)+"px,-1px)"}],6500); }
-  var dishes=["smash-burger","wings","tostadas","tuna-rice","coconut-shrimp","oysters","smash-burger","jungle-fries"], di=0, slot=0;
-  function dish(){ var e=document.getElementById(slot?"dishB":"dishA"); slot=1-slot; e.classList.remove("in"); void e.offsetWidth; e.src="img/scene/"+dishes[di++%dishes.length]+".webp"; e.classList.add("in");
-    var r=e.getBoundingClientRect(), b=A.getBoundingClientRect();
-    if(/burger|wings|shrimp/.test(e.src)) for(var q=0;q<4;q++){ (function(q){ var st=document.createElement("i"); st.className="fx"; st.style.cssText="left:"+((r.left-b.left)+r.width*(.3+q*.13))+"px;top:"+((r.top-b.top)+r.height*.15)+"px;width:"+(r.width*.16)+"px;height:"+(r.width*.4)+"px;border-radius:50%;background:radial-gradient(ellipse at 50% 70%,rgba(255,255,255,.55),rgba(255,255,255,0) 70%);filter:blur(4px)";
-      A.appendChild(st); anim(st,[{transform:"translate(0,10px) scale(.6)",opacity:0},{opacity:.85,offset:.3},{transform:"translate("+(q%2?8:-8)+"px,-50px) scale(1.4)",opacity:0}],2200+q*300); })(q); }
-    for(var k=0;k<6;k++){ var s=document.createElement("i"); s.className="spark"; s.style.left=((r.left-b.left)+r.width*(.2+Math.random()*.6))+"px"; s.style.top=((r.top-b.top)+r.height*(.2+Math.random()*.4))+"px";
+  var dishes=["smash-burger","wings","tostadas","tuna-rice","coconut-shrimp","oysters","jungle-fries"], di=0, round=0;
+  function plate(id,src,left,top,width){ var e=document.getElementById(id); if(!e) return null; e.classList.remove("in"); void e.offsetWidth;
+    e.style.left=left+"%"; e.style.top=top+"%"; e.style.width=width+"%"; var url="img/scene/"+src+".webp";
+    e.querySelector("img").src=url; var sh=e.querySelector(".sheen"); sh.style.webkitMaskImage=sh.style.maskImage="url("+url+")";
+    e.classList.add("in"); return e; }
+  function sparkle(e){ var r=e.getBoundingClientRect(), b=A.getBoundingClientRect();
+    for(var k=0;k<7;k++){ var s=document.createElement("i"); s.className="spark"; s.style.left=((r.left-b.left)+r.width*(.15+Math.random()*.7))+"px"; s.style.top=((r.top-b.top)+r.height*(.1+Math.random()*.4))+"px";
       s.style.setProperty("--dx",(Math.random()*40-20)+"px"); s.style.setProperty("--dy",(-10-Math.random()*25)+"px"); A.appendChild(s); setTimeout(function(x){ return function(){ x.remove(); }; }(s),950); } }
+  function steam(e){ var r=e.getBoundingClientRect(), b=A.getBoundingClientRect();
+    for(var q=0;q<4;q++){ (function(q){ var st=document.createElement("i"); st.className="fx"; st.style.cssText="left:"+((r.left-b.left)+r.width*(.3+q*.13))+"px;top:"+((r.top-b.top)+r.height*.05)+"px;width:"+(r.width*.16)+"px;height:"+(r.width*.4)+"px;border-radius:50%;background:radial-gradient(ellipse at 50% 70%,rgba(255,255,255,.55),rgba(255,255,255,0) 70%);filter:blur(4px)";
+      A.appendChild(st); anim(st,[{transform:"translate(0,10px) scale(.6)",opacity:0},{opacity:.85,offset:.3},{transform:"translate("+(q%2?8:-8)+"px,-50px) scale(1.4)",opacity:0}],2400+q*300); })(q); } }
+  function dish(){
+    round++;
+    if(round%3===0){ var d1=dishes[di++%dishes.length], d2=dishes[di++%dishes.length];       // a spread: two plates side by side
+      var a=plate("plateA",d1,59,60,23), b=plate("plateB",d2,79,61,21); a&&sparkle(a); b&&sparkle(b); if(/burger|wings|shrimp/.test(d1)) steam(a); }
+    else { var d=dishes[di++%dishes.length]; var e=plate("plateA",d,64,57,30); document.getElementById("plateB").classList.remove("in"); sparkle(e); if(/burger|wings|shrimp/.test(d)) steam(e); }
+  }
   var on=true; new IntersectionObserver(function(e){ on=e[0].isIntersecting; }).observe(A);
-  setTimeout(dish,900); setInterval(function(){ if(on) dish(); },2600);
+  setTimeout(dish,900); setInterval(function(){ if(on) dish(); },4800);
   setInterval(function(){ if(on&&Math.random()<.55) dolphin(); },3800);
   setInterval(function(){ if(on) gull(); },3300); gull();
   setInterval(function(){ if(on&&Math.random()<.5) jetski(); },9000); setTimeout(jetski,2500);

diff --git a/churrito-loco/setup/index.html b/churrito-loco/setup/index.html
@@ -294,6 +294,7 @@ last.appendChild(chipRow("approved",["Yes, put it live","Show me a preview first
 app.appendChild(last);
 refresh();
 
+window.SETUP_SUMMARY = function () { return summary(); };   // lets the owner's launch checklist (/launch/…) collect these answers
 function summary(){
   var out=[CFG.name.toUpperCase()+" SETUP (from "+(OWNER==="there"?"the owner":OWNER)+")"];
   Q.forEach(function(sec){ out.push("\n"+sec[0].toUpperCase()); sec[1].forEach(function(q){

diff --git a/gritz-n-wafflez/setup/index.html b/gritz-n-wafflez/setup/index.html
@@ -297,6 +297,7 @@ last.appendChild(chipRow("approved",["Yes, put it live","Show me a preview first
 app.appendChild(last);
 refresh();
 
+window.SETUP_SUMMARY = function () { return summary(); };   // lets the owner's launch checklist (/launch/…) collect these answers
 function summary(){
   var out=[CFG.name.toUpperCase()+" SETUP (from "+(OWNER==="there"?"the owner":OWNER)+")"];
   Q.forEach(function(sec){ out.push("\n"+sec[0].toUpperCase()); sec[1].forEach(function(q){

diff --git a/lucky-dragon/setup/index.html b/lucky-dragon/setup/index.html
@@ -295,6 +295,7 @@ last.appendChild(chipRow("approved",["Yes, put it live","Show me a preview first
 app.appendChild(last);
 refresh();
 
+window.SETUP_SUMMARY = function () { return summary(); };   // lets the owner's launch checklist (/launch/…) collect these answers
 function summary(){
   var out=[CFG.name.toUpperCase()+" SETUP (from "+(OWNER==="there"?"the owner":OWNER)+")"];
   Q.forEach(function(sec){ out.push("\n"+sec[0].toUpperCase()); sec[1].forEach(function(q){

diff --git a/melody/setup/index.html b/melody/setup/index.html
@@ -295,6 +295,7 @@ last.appendChild(chipRow("approved",["Yes, put it live","Show me a preview first
 app.appendChild(last);
 refresh();
 
+window.SETUP_SUMMARY = function () { return summary(); };   // lets the owner's launch checklist (/launch/…) collect these answers
 function summary(){
   var out=[CFG.name.toUpperCase()+" SETUP (from "+(OWNER==="there"?"the owner":OWNER)+")"];
   Q.forEach(function(sec){ out.push("\n"+sec[0].toUpperCase()); sec[1].forEach(function(q){

diff --git a/nalu-vida/setup/index.html b/nalu-vida/setup/index.html
@@ -320,6 +320,7 @@ last.appendChild(chipRow("approved",["Yes, put it live","Show me a preview first
 app.appendChild(last);
 refresh();
 
+window.SETUP_SUMMARY = function () { return summary(); };   // lets the owner's launch checklist (/launch/…) collect these answers
 function summary(){
   var out=[CFG.name.toUpperCase()+" SETUP (from "+(OWNER==="there"?"the owner":OWNER)+")"];
   Q.forEach(function(sec){ out.push("\n"+sec[0].toUpperCase()); sec[1].forEach(function(q){

diff --git a/setup-kit/template.html b/setup-kit/template.html
@@ -275,6 +275,7 @@ last.appendChild(chipRow("approved",["Yes, put it live","Show me a preview first
 app.appendChild(last);
 refresh();
 
+window.SETUP_SUMMARY = function () { return summary(); };   // lets the owner's launch checklist (/launch/…) collect these answers
 function summary(){
   var out=[CFG.name.toUpperCase()+" SETUP (from "+(OWNER==="there"?"the owner":OWNER)+")"];
   Q.forEach(function(sec){ out.push("\n"+sec[0].toUpperCase()); sec[1].forEach(function(q){

diff --git a/storm-burger/setup/index.html b/storm-burger/setup/index.html
@@ -295,6 +295,7 @@ last.appendChild(chipRow("approved",["Yes, put it live","Show me a preview first
 app.appendChild(last);
 refresh();
 
+window.SETUP_SUMMARY = function () { return summary(); };   // lets the owner's launch checklist (/launch/…) collect these answers
 function summary(){
   var out=[CFG.name.toUpperCase()+" SETUP (from "+(OWNER==="there"?"the owner":OWNER)+")"];
   Q.forEach(function(sec){ out.push("\n"+sec[0].toUpperCase()); sec[1].forEach(function(q){
